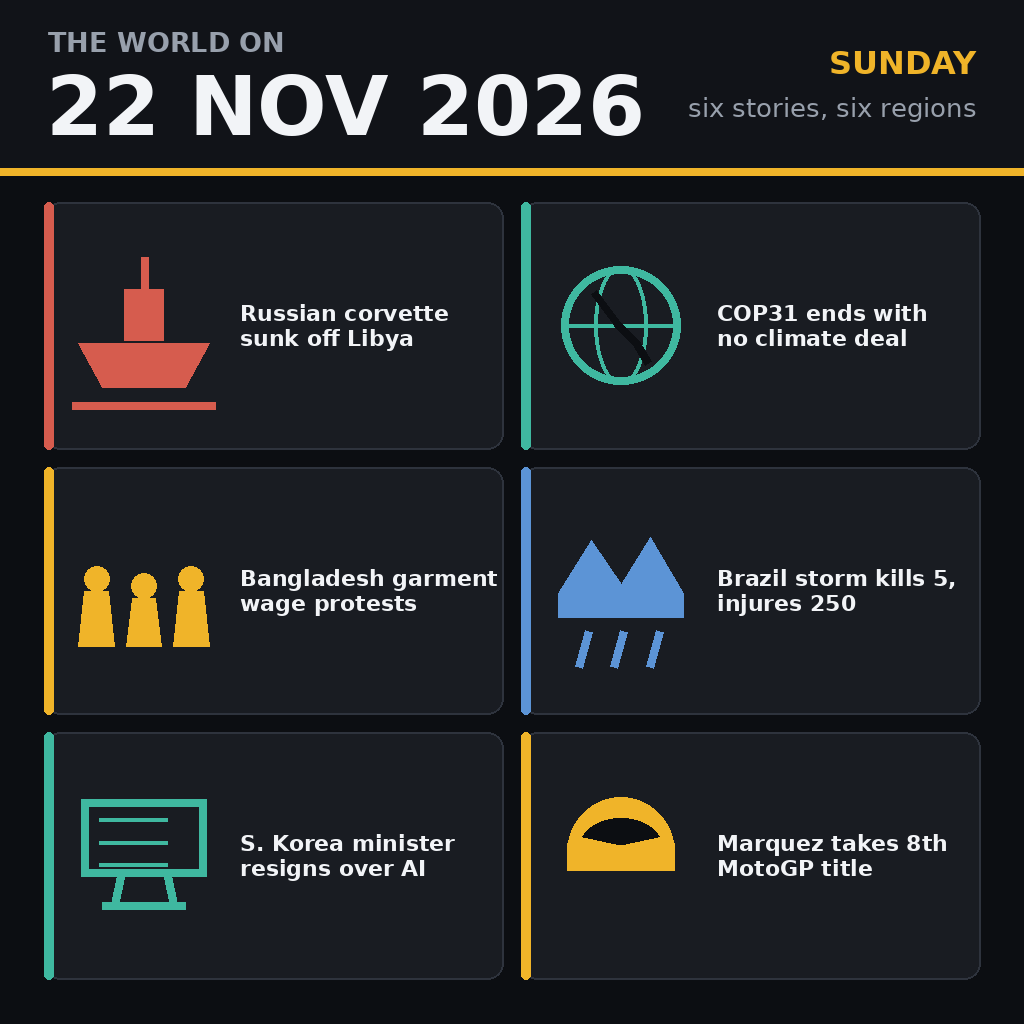
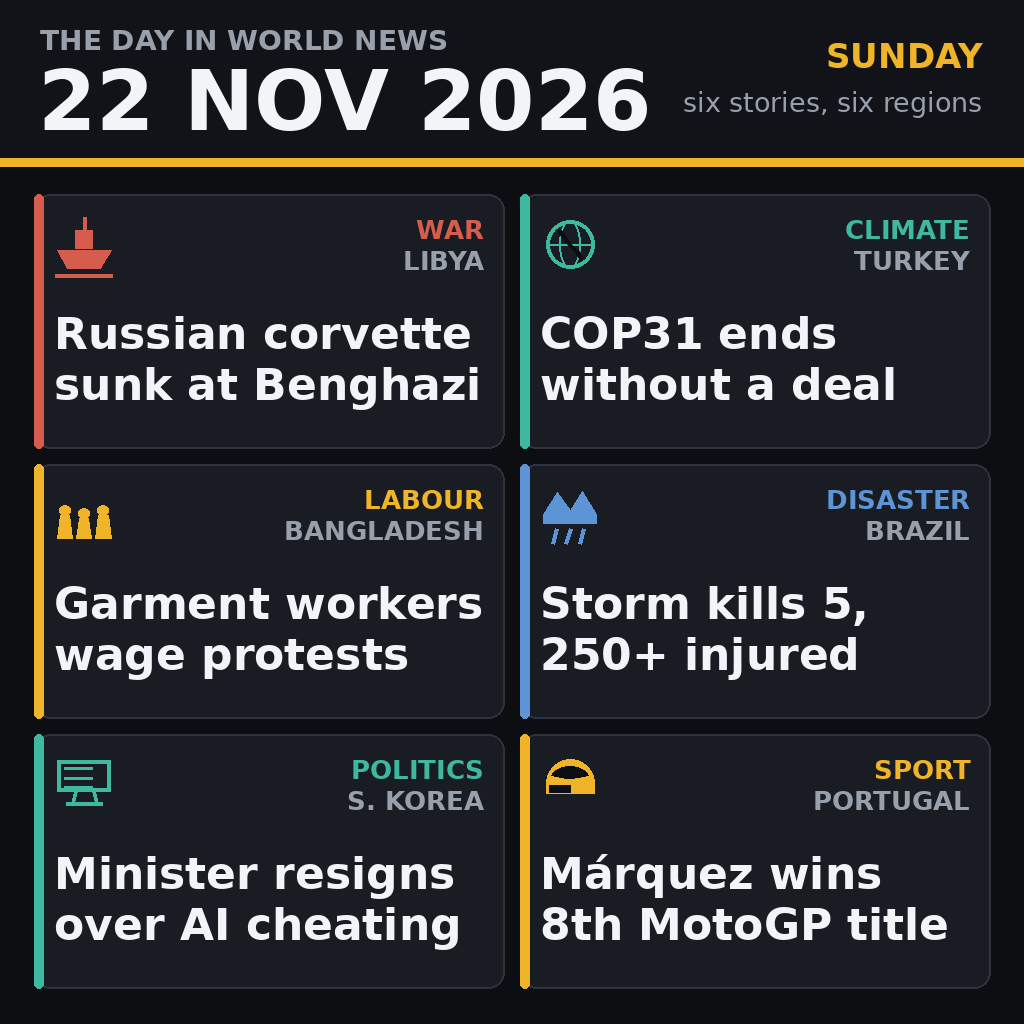
Redraw the 22 November 2026 poster: one shared label size, beat+country tags
Reworked the layout so the labels survive judge scale (~300 px across):
each tile now carries a beat and country stacked at the top right, and the
two label lines sit in one shared 44 px bold size measured against the
tile's inner width, instead of sizing tiles independently.

Measured: entry.png 97,504 bytes (limit 1,048,576), 1024x1024, PNG chunks
IHDR/IDAT/IDAT/IEND with every zlib.crc32 matching. Widest label line
'Garment workers' 429 px against a 430 px inner tile width; longest tag
'BANGLADESH' 230 px. Label type at 300 px across is ~12.9 px cap height.
main.ts run twice writes identical bytes (sha256 f7b8569f...8fdbf2).

README: corrected the COP31 row (Antalya, Turkey, not Cyprus) and listed
the six labels as printed.

Changed region(s): [[0.0, 0.0312, 1.0, 0.9688]]

diff --git a/render.py b/render.py
@@ -9,15 +9,17 @@ reports.
 Two hard constraints drive the layout:
   * The judge reads at about 300 px across, so type must be large relative to
     the canvas; six short labels beat a page of prose.
-  * Labels must be measured and shrunk to fit their tile. In the first draft
-    every line ran off the right edge, which a picture editor sees immediately
-    and which reads as a bug rather than a design.
+  * Labels are measured with ImageFont.getlength() and the whole poster shares
+    ONE label size, chosen as the largest that fits every tile's inner width.
+    Sizing each tile on its own gives the longest label the smallest type, and
+    that is exactly the line that turns unreadable at judge scale.
 """
 import os
 from PIL import Image, ImageDraw, ImageFont
 
 W = H = 1024
 BG = (12, 14, 18)
+MAST = (17, 19, 24)
 PANEL = (25, 28, 34)
 PANEL_EDGE = (46, 51, 61)
 INK = (242, 244, 247)
@@ -30,16 +32,16 @@ BLUE = (92, 148, 214)
 BOLD = "/usr/share/fonts/truetype/dejavu/DejaVuSans-Bold.ttf"
 REG = "/usr/share/fonts/truetype/dejavu/DejaVuSans.ttf"
 
-# Labels are deliberately of similar length. A tile whose text ran long got the
-# smallest type, and at 300 px that one line became the only unreadable one in the
-# poster: equal-length labels let every tile share one type size.
+# Each tile: beat, country, two short label lines, accent colour, pictogram.
+# Beat and country stack at the top right, so each line can stay large at judge
+# scale while still naming both the field and the region.
 STORIES = [
-    (["Russian corvette", "sunk off Libya"], RED, "ship"),
-    (["COP31 ends with", "no climate deal"], TEAL, "globe"),
-    (["Bangladesh garment", "wage protests"], ACCENT, "crowd"),
-    (["Brazil storm kills 5,", "injures 250"], BLUE, "storm"),
-    (["S. Korea minister", "resigns over AI"], TEAL, "screen"),
-    (["Marquez takes 8th", "MotoGP title"], ACCENT, "helmet"),
+    ("WAR", "LIBYA", ["Russian corvette", "sunk at Benghazi"], RED, "ship"),
+    ("CLIMATE", "TURKEY", ["COP31 ends", "without a deal"], TEAL, "globe"),
+    ("LABOUR", "BANGLADESH", ["Garment workers", "wage protests"], ACCENT, "crowd"),
+    ("DISASTER", "BRAZIL", ["Storm kills 5,", "250+ injured"], BLUE, "storm"),
+    ("POLITICS", "S. KOREA", ["Minister resigns", "over AI cheating"], TEAL, "screen"),
+    ("SPORT", "PORTUGAL", ["Márquez wins", "8th MotoGP title"], ACCENT, "helmet"),
 ]
 
 
@@ -47,31 +49,28 @@ def font(path, size):
     return ImageFont.truetype(path, int(size))
 
 
-def fit(lines, path, max_w, max_h, start=46, floor=17):
-    """Largest size at which every line fits both the width and the height."""
+def fit_size(lines, path, max_w, start, floor=18):
+    """Largest type size at which every line fits max_w. Measured, not hoped."""
     size = start
     while size > floor:
         f = font(path, size)
-        widest = max((f.getlength(l) for l in lines), default=0)
-        line_h = size * 1.18
-        if widest <= max_w and line_h * len(lines) <= max_h:
-            return f, size, line_h
+        if max(f.getlength(l) for l in lines) <= max_w:
+            return size
         size -= 1
-    f = font(path, floor)
-    return f, floor, floor * 1.18
+    return floor
 
 
 def icon(d, key, x, y, s, colour):
     """Flat pictograms: they survive a downscale to 300 px, where a detailed
     drawing would become a smear."""
     cx, cy = x + s / 2, y + s / 2
-    lw = max(4, int(s * 0.06))
+    lw = max(4, int(s * 0.075))
     if key == "ship":
-        d.polygon([(x + s * 0.06, cy + s * 0.12), (x + s * 0.94, cy + s * 0.12),
-                   (x + s * 0.78, cy + s * 0.42), (x + s * 0.22, cy + s * 0.42)], fill=colour)
-        d.rectangle([x + s * 0.37, cy - s * 0.24, x + s * 0.63, cy + s * 0.10], fill=colour)
-        d.line([(cx, cy - s * 0.46), (cx, cy - s * 0.22)], fill=colour, width=lw)
-        d.line([(x + s * 0.02, cy + s * 0.54), (x + s * 0.98, cy + s * 0.54)], fill=colour, width=lw)
+        d.polygon([(x + s * 0.05, cy + s * 0.10), (x + s * 0.95, cy + s * 0.10),
+                   (x + s * 0.78, cy + s * 0.40), (x + s * 0.22, cy + s * 0.40)], fill=colour)
+        d.rectangle([x + s * 0.36, cy - s * 0.22, x + s * 0.64, cy + s * 0.08], fill=colour)
+        d.line([(cx, cy - s * 0.44), (cx, cy - s * 0.20)], fill=colour, width=lw)
+        d.line([(x + s * 0.02, cy + s * 0.52), (x + s * 0.98, cy + s * 0.52)], fill=colour, width=lw)
     elif key == "globe":
         r = s * 0.40
         d.ellipse([cx - r, cy - r, cx + r, cy + r], outline=colour, width=lw)
@@ -83,33 +82,34 @@ def icon(d, key, x, y, s, colour):
     elif key == "crowd":
         for i, dx in enumerate((-0.32, 0.0, 0.32)):
             hx = cx + dx * s
-            hy = cy - s * 0.08 + (s * 0.05 if i == 1 else 0)
-            r2 = s * 0.085
+            hy = cy - s * 0.06 + (s * 0.05 if i == 1 else 0)
+            r2 = s * 0.088
             d.ellipse([hx - r2, hy - r2, hx + r2, hy + r2], fill=colour)
-            d.polygon([(hx - s * 0.12, cy + s * 0.38), (hx + s * 0.12, cy + s * 0.38),
+            d.polygon([(hx - s * 0.13, cy + s * 0.40), (hx + s * 0.13, cy + s * 0.40),
                        (hx + s * 0.08, hy + r2), (hx - s * 0.08, hy + r2)], fill=colour)
     elif key == "storm":
-        d.polygon([(x + s * 0.08, cy + s * 0.02), (x + s * 0.30, cy - s * 0.34),
-                   (x + s * 0.50, cy - s * 0.04), (x + s * 0.70, cy - s * 0.36),
-                   (x + s * 0.92, cy + s * 0.02)], fill=colour)
-        d.rectangle([x + s * 0.08, cy + s * 0.02, x + s * 0.92, cy + s * 0.18], fill=colour)
-        for dx in (0.28, 0.52, 0.76):
-            d.line([(x + s * dx, cy + s * 0.28), (x + s * (dx - 0.07), cy + s * 0.52)],
+        d.polygon([(x + s * 0.06, cy + s * 0.00), (x + s * 0.29, cy - s * 0.36),
+                   (x + s * 0.50, cy - s * 0.06), (x + s * 0.71, cy - s * 0.38),
+                   (x + s * 0.94, cy + s * 0.00)], fill=colour)
+        d.rectangle([x + s * 0.06, cy + s * 0.00, x + s * 0.94, cy + s * 0.16], fill=colour)
+        for dx in (0.27, 0.50, 0.73):
+            d.line([(x + s * dx, cy + s * 0.26), (x + s * (dx - 0.07), cy + s * 0.50)],
                    fill=colour, width=lw)
     elif key == "screen":
-        d.rectangle([x + s * 0.08, cy - s * 0.38, x + s * 0.92, cy + s * 0.14],
+        d.rectangle([x + s * 0.06, cy - s * 0.40, x + s * 0.94, cy + s * 0.12],
                     outline=colour, width=lw)
         for i in range(3):
-            yy = cy - s * 0.24 + i * s * 0.15
-            d.line([(x + s * 0.20, yy), (x + s * 0.66, yy)], fill=colour, width=max(3, lw // 2))
-        d.line([(cx - s * 0.16, cy + s * 0.14), (cx - s * 0.20, cy + s * 0.34)], fill=colour, width=lw)
-        d.line([(cx + s * 0.16, cy + s * 0.14), (cx + s * 0.20, cy + s * 0.34)], fill=colour, width=lw)
-        d.line([(cx - s * 0.28, cy + s * 0.34), (cx + s * 0.28, cy + s * 0.34)], fill=colour, width=lw)
+            yy = cy - s * 0.26 + i * s * 0.16
+            d.line([(x + s * 0.18, yy), (x + s * 0.64, yy)], fill=colour, width=max(3, lw // 2))
+        d.line([(cx - s * 0.15, cy + s * 0.12), (cx - s * 0.20, cy + s * 0.32)], fill=colour, width=lw)
+        d.line([(cx + s * 0.15, cy + s * 0.12), (cx + s * 0.20, cy + s * 0.32)], fill=colour, width=lw)
+        d.line([(cx - s * 0.30, cy + s * 0.32), (cx + s * 0.30, cy + s * 0.32)], fill=colour, width=lw)
     elif key == "helmet":
-        r = s * 0.36
-        d.pieslice([cx - r, cy - r * 1.08, cx + r, cy + r * 0.98], 180, 360, fill=colour)
-        d.rectangle([cx - r, cy - s * 0.08, cx + r, cy + s * 0.10], fill=colour)
-        d.pieslice([cx - r * 0.76, cy - r * 0.70, cx + r * 0.76, cy + r * 0.32], 198, 342, fill=BG)
+        r = s * 0.40
+        d.pieslice([cx - r, cy - r * 1.02, cx + r, cy + r * 1.02], 180, 360, fill=colour)
+        d.rectangle([cx - r, cy - s * 0.08, cx + r, cy + s * 0.16], fill=colour)
+        d.pieslice([cx - r * 0.80, cy - r * 0.72, cx + r * 0.80, cy + r * 0.34], 196, 344, fill=BG)
+        d.rectangle([cx - r * 0.86, cy + s * 0.02, cx + r * 0.02, cy + s * 0.14], fill=BG)
 
 
 def main(out_path):
@@ -117,49 +117,55 @@ def main(out_path):
     d = ImageDraw.Draw(img)
 
     # ---- masthead ----------------------------------------------------------
-    d.rectangle([0, 0, W, 168], fill=(17, 19, 24))
-    d.rectangle([0, 168, W, 175], fill=ACCENT)
-    d.text((48, 26), "THE WORLD ON", font=font(BOLD, 27), fill=MUTED)
-    d.text((46, 58), "22 NOV 2026", font=font(BOLD, 82), fill=INK)
-    d.text((W - 48, 44), "SUNDAY", font=font(BOLD, 32), fill=ACCENT, anchor="ra")
-    d.text((W - 48, 92), "six stories, six regions", font=font(REG, 26), fill=MUTED, anchor="ra")
+    d.rectangle([0, 0, W, 158], fill=MAST)
+    d.rectangle([0, 158, W, 166], fill=ACCENT)
+    d.text((40, 24), "THE DAY IN WORLD NEWS", font=font(BOLD, 28), fill=MUTED)
+    d.text((38, 52), "22 NOV 2026", font=font(BOLD, 84), fill=INK)
+    d.text((W - 42, 36), "SUNDAY", font=font(BOLD, 34), fill=ACCENT, anchor="ra")
+    d.text((W - 42, 86), "six stories, six regions", font=font(REG, 27), fill=MUTED, anchor="ra")
 
     # ---- six story tiles ---------------------------------------------------
-    M = 44                       # page margin
-    gap = 18
-    top = 168 + 34
+    M = 34                        # page margin
+    gap = 16
+    top = 166 + 28
     bottom = H - M
     cols, rows = 2, 3
     tw = (W - 2 * M - gap * (cols - 1)) // cols
     th = (bottom - top - gap * (rows - 1)) // rows
 
-    # One type size for all six tiles: the smallest size that fits every label.
-    # Mixed sizes read as an accident, and the tile that had to shrink is exactly
-    # the one that becomes unreadable at judge scale.
-    s = int(th * 0.60)
-    tx_off = 26 + s + 22
-    avail_w = tw - tx_off - 20
-    avail_h = th - 26
-    shared = min(fit(lines, BOLD, avail_w, avail_h)[1] for lines, _, _ in STORIES)
-    shared = max(shared, 22)
-    f = font(BOLD, shared)
-    line_h = shared * 1.16
+    pad = 20
+    inner = tw - 2 * pad
+    icon_s = 60
+    tag_gap = 14
 
-    for i, (lines, colour, key) in enumerate(STORIES):
+    shared = min(fit_size(lines, BOLD, inner, start=52) for _, _, lines, _, _ in STORIES)
+    tag_lines = [beat for beat, _, _, _, _ in STORIES] + [place for _, place, _, _, _ in STORIES]
+    tag_size = min(fit_size(tag_lines, BOLD, inner - icon_s - tag_gap, start=30), 26)
+    line_h = shared * 1.17
+    tag_h = tag_size * 1.18
+
+    f_label = font(BOLD, shared)
+    f_tag = font(BOLD, tag_size)
+
+    for i, (beat, place, lines, colour, key) in enumerate(STORIES):
         x0 = M + (i % cols) * (tw + gap)
         y0 = top + (i // cols) * (th + gap)
         d.rounded_rectangle([x0, y0, x0 + tw, y0 + th], radius=16,
                             fill=PANEL, outline=PANEL_EDGE, width=2)
         d.rounded_rectangle([x0, y0, x0 + 9, y0 + th], radius=5, fill=colour)
 
-        # The icon centres on the tile's own centre line, so it sits the same
-        # distance from each edge whatever the label's height.
-        icon(d, key, x0 + 26, y0 + (th - s) / 2, s, colour)
+        icon(d, key, x0 + pad, y0 + pad, icon_s, colour)
+        ty = y0 + pad
+        d.text((x0 + tw - pad, ty), beat, font=f_tag, fill=colour, anchor="ra")
+        d.text((x0 + tw - pad, ty + tag_h), place, font=f_tag, fill=MUTED, anchor="ra")
 
-        tx = x0 + tx_off
-        ty = y0 + (th - line_h * len(lines)) / 2
+        # Two label lines, left aligned at the tile padding, vertically centred
+        # in the band below the pictogram row.
+        band_top = y0 + pad + icon_s + 16
+        band_h = y0 + th - pad - band_top
+        ty = band_top + (band_h - line_h * len(lines)) / 2
         for line in lines:
-            d.text((tx, ty), line, font=f, fill=INK)
+            d.text((x0 + pad, ty), line, font=f_label, fill=INK)
             ty += line_h
 
     img.save(out_path, "PNG", optimize=True)

diff --git a/README.md b/README.md
@@ -9,11 +9,22 @@ One image summing up Sunday 22 November 2026: six stories, six regions. Built by
 | # | Story | Where |
 |---|---|---|
 | 1 | Russian corvette *Merkury* sunk by naval drones at Benghazi | Libya |
-| 2 | COP31 in Antalya ends without a final agreement | Cyprus talks fail |
-| 3 | Garment wage protests spread across Gazipur | Bangladesh |
+| 2 | COP31 in Antalya ends without a final agreement | Turkey |
+| 3 | Garment wage protests across Gazipur | Bangladesh |
 | 4 | Severe thunderstorm kills 5 and injures 250+ | Brazil |
 | 5 | Education minister resigns over AI-assisted exam cheating | South Korea |
 | 6 | Marc Marquez takes an eighth premier-class title | Portugal |
+
+The poster prints, per tile, a beat and country tag plus two label lines:
+
+| Tile | Beat · country | Labels |
+|---|---|---|
+| 1 | WAR · LIBYA | "Russian corvette" / "sunk at Benghazi" |
+| 2 | CLIMATE · TURKEY | "COP31 ends" / "without a deal" |
+| 3 | LABOUR · BANGLADESH | "Garment workers" / "wage protests" |
+| 4 | DISASTER · BRAZIL | "Storm kills 5," / "250+ injured" |
+| 5 | POLITICS · S. KOREA | "Minister resigns" / "over AI cheating" |
+| 6 | SPORT · PORTUGAL | "Márquez wins" / "8th MotoGP title" |
 
 Every line is from the day's own reporting, as collected on Wikipedia's Current
 events page for 22 November 2026, which cites AFP, Reuters, AP, Al Jazeera and
